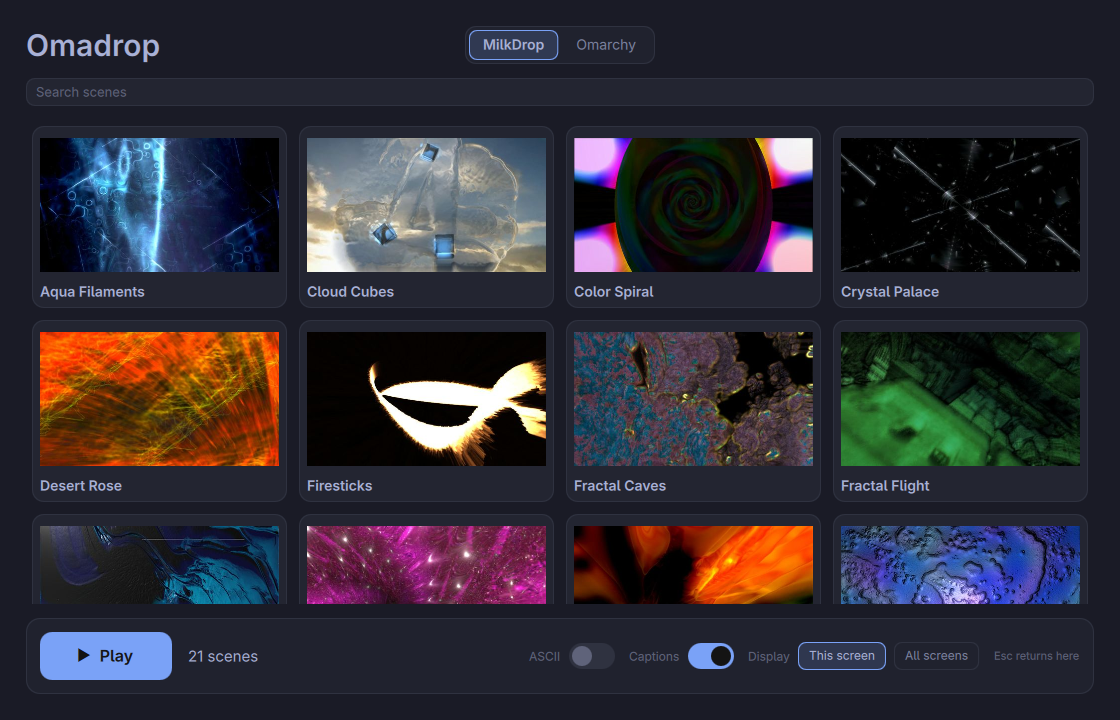
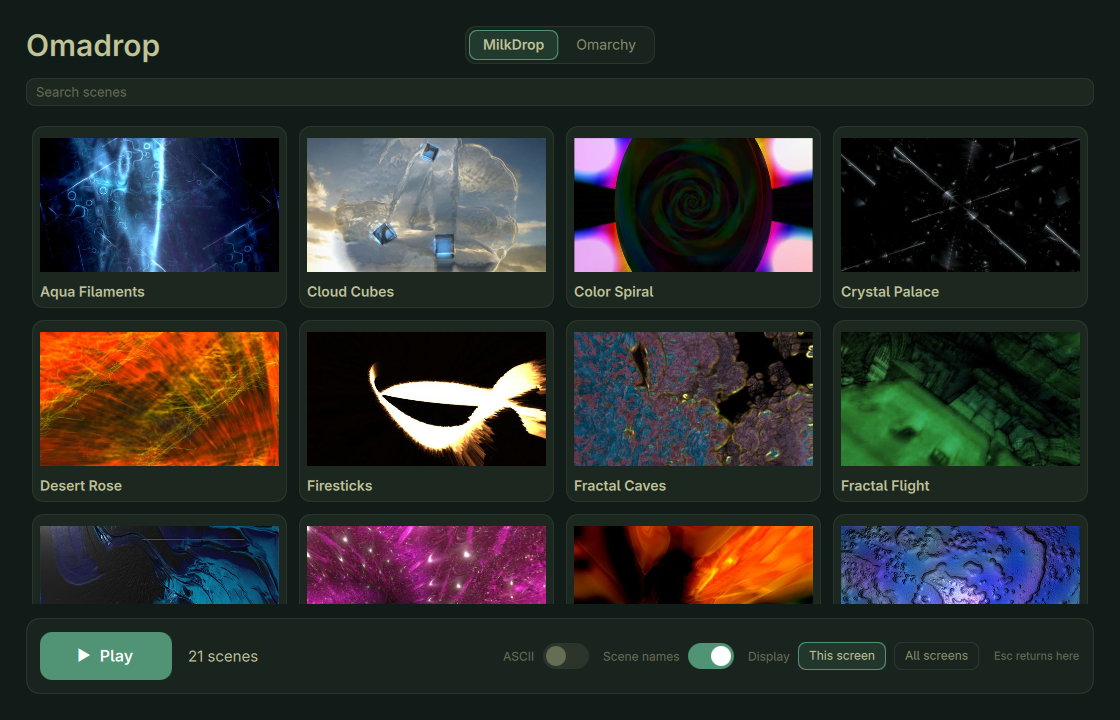
docs: refresh the 0.5.0 launch README and screenshots

diff --git a/README.md b/README.md
@@ -1,84 +1,88 @@
 # Omadrop
 
-Music visuals for Omarchy: 21 MilkDrop scenes and 37 terminal effects in one app.
+**MilkDrop for Omarchy, wired to your music.**
 
-![Omadrop controls and thumbnail browser](docs/media/controls.png)
+21 hand-picked MilkDrop presets, each connected to Omadrop's audio engine.
+Play music in any app, open Omadrop, and go fullscreen.
 
-## What it does
+[![Neon Orbits in Omadrop](docs/media/neon-orbits.jpg)](https://github.com/btsouth/omadrop/releases/download/v0.5.0/omadrop-v0.5.0-demo.mp4)
 
-Open Omadrop to a compact control panel with a thumbnail grid. Pick a mode,
-choose a card, or press Play.
-
-- MilkDrop: 21 curated presets with added audio response,
-  shuffled rotation with blended transitions, and an optional ASCII dot filter.
-- Omarchy (early): the 37 ttfx effects from the Omarchy screensaver, driven by your
-  music. A bigger upgrade to this mode is planned for the next release.
-
-Audio is captured locally from PipeWire. Browse scenes and effects, hide ones
-you want to skip, and favorite Omarchy effects. MilkDrop cards include ASCII
-previews. Esc returns from playback to the controls.
+[Watch the launch video](https://github.com/btsouth/omadrop/releases/download/v0.5.0/omadrop-v0.5.0-demo.mp4) · [Download v0.5.0](https://github.com/btsouth/omadrop/releases/tag/v0.5.0)
 
 ## Install
 
-Download the Arch package from the [release page](https://github.com/btsouth/omadrop/releases), then:
+For Omarchy on Arch Linux, x86_64:
 
 ```sh
-sudo pacman -U omadrop-*.pkg.tar.zst
+curl -fLO https://github.com/btsouth/omadrop/releases/download/v0.5.0/omadrop-0.5.0-1-x86_64.pkg.tar.zst
+sudo pacman -U omadrop-0.5.0-1-x86_64.pkg.tar.zst
 ```
 
-To build an Arch package from source:
+Open **Omadrop** from the app launcher, or run `omadrop`.
+Close the app before updating. Package dependencies are installed by pacman;
+the package does not change your Hyprland shortcuts.
+
+## Pick a scene. Press Play.
+
+![Omadrop controls in Osaka Jade](docs/media/controls.png)
+
+The controls follow your Omarchy theme. Click a thumbnail to start with that
+scene, or press Play for a shuffled rotation with blended transitions.
+Esc brings you back to the controls.
+
+- **21 MilkDrop presets.** Original shaders, feedback and textures, with added
+  response to frequencies, transients and musical changes.
+- **ASCII mode.** A dot filter with previews in the thumbnail grid.
+- **Your collection.** Hide scenes you want to skip and toggle scene names.
+- **Your output.** Play on one display or all displays, with audio timing
+  adjustment for Bluetooth and other outputs.
+- **Local audio.** Captures what is playing through PipeWire. No account or
+  cloud service.
+
+<p>
+  <img src="docs/media/liquid-ice.jpg" alt="Liquid Ice, adapted from Flexi's crush ice 62 preset" width="49%">
+  <img src="docs/media/ascii.jpg" alt="Neon Orbits with the ASCII dot filter, adapted from Serge and martin's crystal palace010 preset" width="49%">
+</p>
+<p><sub>Liquid Ice · Neon Orbits in ASCII</sub></p>
+
+Omadrop also includes an **early Omarchy mode** with 37 music-driven terminal
+effects from the Omarchy screensaver. MilkDrop is the main attraction in this release.
+
+## Controls
+
+| Key | MilkDrop |
+| --- | --- |
+| Esc | Return to controls |
+| N / P | Next / previous scene |
+| A | Toggle ASCII |
+| O | Toggle added audio response |
+| [ / ] | Adjust audio timing by 10 ms |
+| F11 | Toggle fullscreen |
+
+See [all controls and commands](docs/controls.md).
+
+## Build from source
 
 ```sh
+git clone https://github.com/btsouth/omadrop.git
+cd omadrop
 packaging/makepkg.sh -si
 ```
 
-Or build and install for your user:
+Or use `./install.sh` for a user installation. See
+[building and testing](docs/building.md) and [contributing](CONTRIBUTING.md).
+Omadrop needs Hyprland, PipeWire and an OpenGL 3.3 capable GPU. Omarchy mode
+uses Ghostty by default; other supported terminals are listed in the package.
 
-```sh
-./install.sh
-```
+## Credits
 
-The package installs to `/usr/lib/omadrop`. The user installer builds the same
-app under `~/.local/share/omadrop`, with a command in `~/.local/bin` and a desktop
-entry. Close Omadrop before updating. See [building](docs/building.md) for
-options and checks. Remove a user installation with `./uninstall.sh`.
+Omadrop code is [MIT licensed](LICENSE). MilkDrop presets and textures retain
+their original authors' rights. Neon Orbits is based on Serge + martin's
+`crystal palace010`; Liquid Ice is based on Flexi's `crush ice 62`.
 
-## Use
+The launch video uses **“We Can Fix Everything” by Kevin Koontz
+([@koozeex1](https://x.com/koozeex1))**.
 
-Open Omadrop from the launcher or run `omadrop`. Select MilkDrop or Omarchy,
-then press Play or click a card. Esc returns to the controls so you can choose
-another scene, effect, or mode.
-
-| Key | MilkDrop | Omarchy |
-| --- | --- | --- |
-| Esc | Return to controls | Return to controls |
-| N / P | Next / previous scene | Next / previous effect |
-| A | Toggle ASCII | No equivalent |
-| O | Toggle added audio response | No equivalent |
-| [ / ] | Adjust audio timing by 10 ms | Uses saved timing |
-| F11 | Toggle fullscreen | Fullscreen terminal |
-
-See [controls](docs/controls.md) for the full key list and
-command-line options. Multi-monitor playback and Bluetooth output timing are
-supported; please [report issues](https://github.com/btsouth/omadrop/issues).
-
-## Requirements
-
-Omarchy on Arch Linux with Hyprland, PipeWire audio, an OpenGL 3.3 capable GPU,
-Qt 6, and a supported terminal for Omarchy mode (Ghostty by default). Album art
-needs a player that exposes MPRIS artwork. The package installs its dependencies;
-the source installer can install build dependencies through Arch's package manager.
-
-## Credits and licensing
-
-Omadrop code is [MIT licensed](LICENSE). MilkDrop presets keep their authors'
-rights, including work by Geiss, Martin, Flexi, and their collaborators. projectM,
-projectm-eval, hlslparser, the texture pack, ttfx, TerminalTextEffects, Qt, and
-media credits are listed in [THIRD_PARTY_NOTICES.md](THIRD_PARTY_NOTICES.md).
-
-Rights holders can request a correction or removal through
-[GitHub issues](https://github.com/btsouth/omadrop/issues/new/choose).
-
-## Contributing
-
-See [CONTRIBUTING.md](CONTRIBUTING.md) for development checks and bug reports.
+Full preset credits and notices for projectM, ttfx, TerminalTextEffects and
+other dependencies are in [THIRD_PARTY_NOTICES.md](THIRD_PARTY_NOTICES.md).
+[Report a bug or request a credit correction](https://github.com/btsouth/omadrop/issues).

diff --git a/THIRD_PARTY_NOTICES.md b/THIRD_PARTY_NOTICES.md
@@ -116,6 +116,12 @@ change notices are in `tests/fixtures/collection-music-attribution.txt` and
 runtime package. `demo/music-rights.json` records approved recording sources;
 it does not bundle those full recordings.
 
+The v0.5.0 launch video uses “We Can Fix Everything” by Kevin Koontz
+([@koozeex1](https://x.com/koozeex1)), also credited on
+[Omarchy’s website](https://omarchy.org/). The video uses a continuous
+60-second excerpt with a short ending fade. Scene and preset-author credits
+appear in the video. The song is not installed in the runtime package.
+
 ## Removal requests
 
 If you own a preset, texture or other asset, request removal or corrected credit
